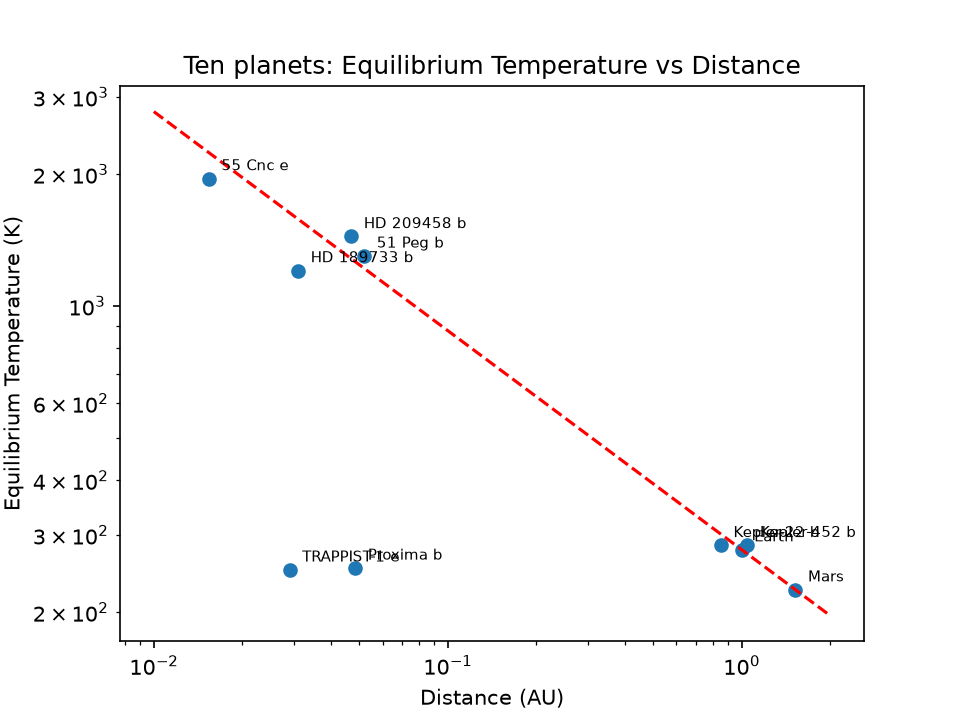
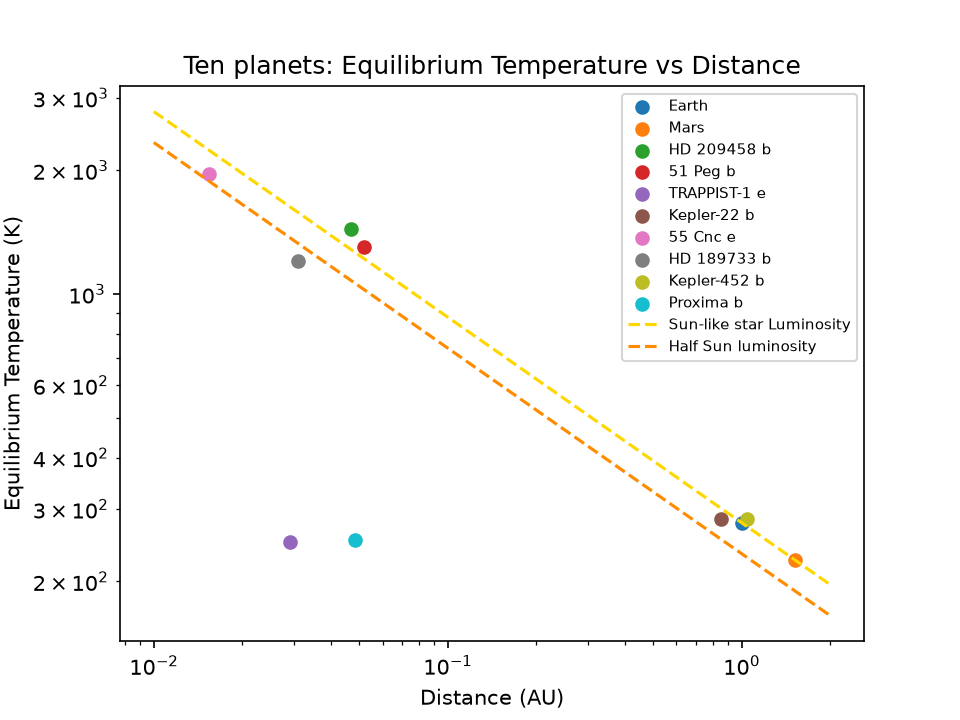
sync

diff --git a/module-4/planets_plot.py b/module-4/planets_plot.py
@@ -17,12 +17,10 @@ lum = np.array([1.0, 1.0, 1.6, 1.3, 0.00055, 0.79, 0.58, 0.34, 1.2, 0.0016])    
 dist = np.array([1.000, 1.524, 0.047, 0.052, 0.029, 0.85, 0.0154, 0.031, 1.046, 0.0485])   # distance, AU
 
 
-
 # FUNCTIONS
 def t_eq(L, d):
     """Equilibrium temperature (K) at distance d (m) from a star of luminosity L (W)."""
     return (L / (16 * np.pi * SIGMA * d**2)) ** 0.25
-
 
 # MAIN: COMPUTE TEMPERATURES AND PLOT
 if __name__ == "__main__":
@@ -47,7 +45,12 @@ if __name__ == "__main__":
     #planets with L = 1 L_sun (Earth, Mars) lie on this curve; brighter stars put planets above it, dimmer ones below.
     #T scales as L^(1/4), so the distance from the curve depends only on the star's luminosity, not on distance.
 
-    ax.plot(d, T_curve, color='red', linestyle='--', label='Sun-like star') # Plot the sun-like star equilibrium temperature curve
+    # STAR W/ HALF SUN LUMINOSITY CURVE (TASK 2)
+    T_curve_half = t_eq(0.5 * L_SUN, d * AU)
+    
+    ax.plot(d, T_curve, color='gold', linestyle='--', label='Sun-like star Luminosity') # curve for a star with Sun-like luminosity
+    ax.plot(d, T_curve_half, color='darkorange', linestyle='--', label='Half Sun luminosity') # curve for a star with half the Sun's luminosity
+    
     ax.legend(fontsize=7)
 
     fig.savefig("module-4/planets.png", dpi=150)
